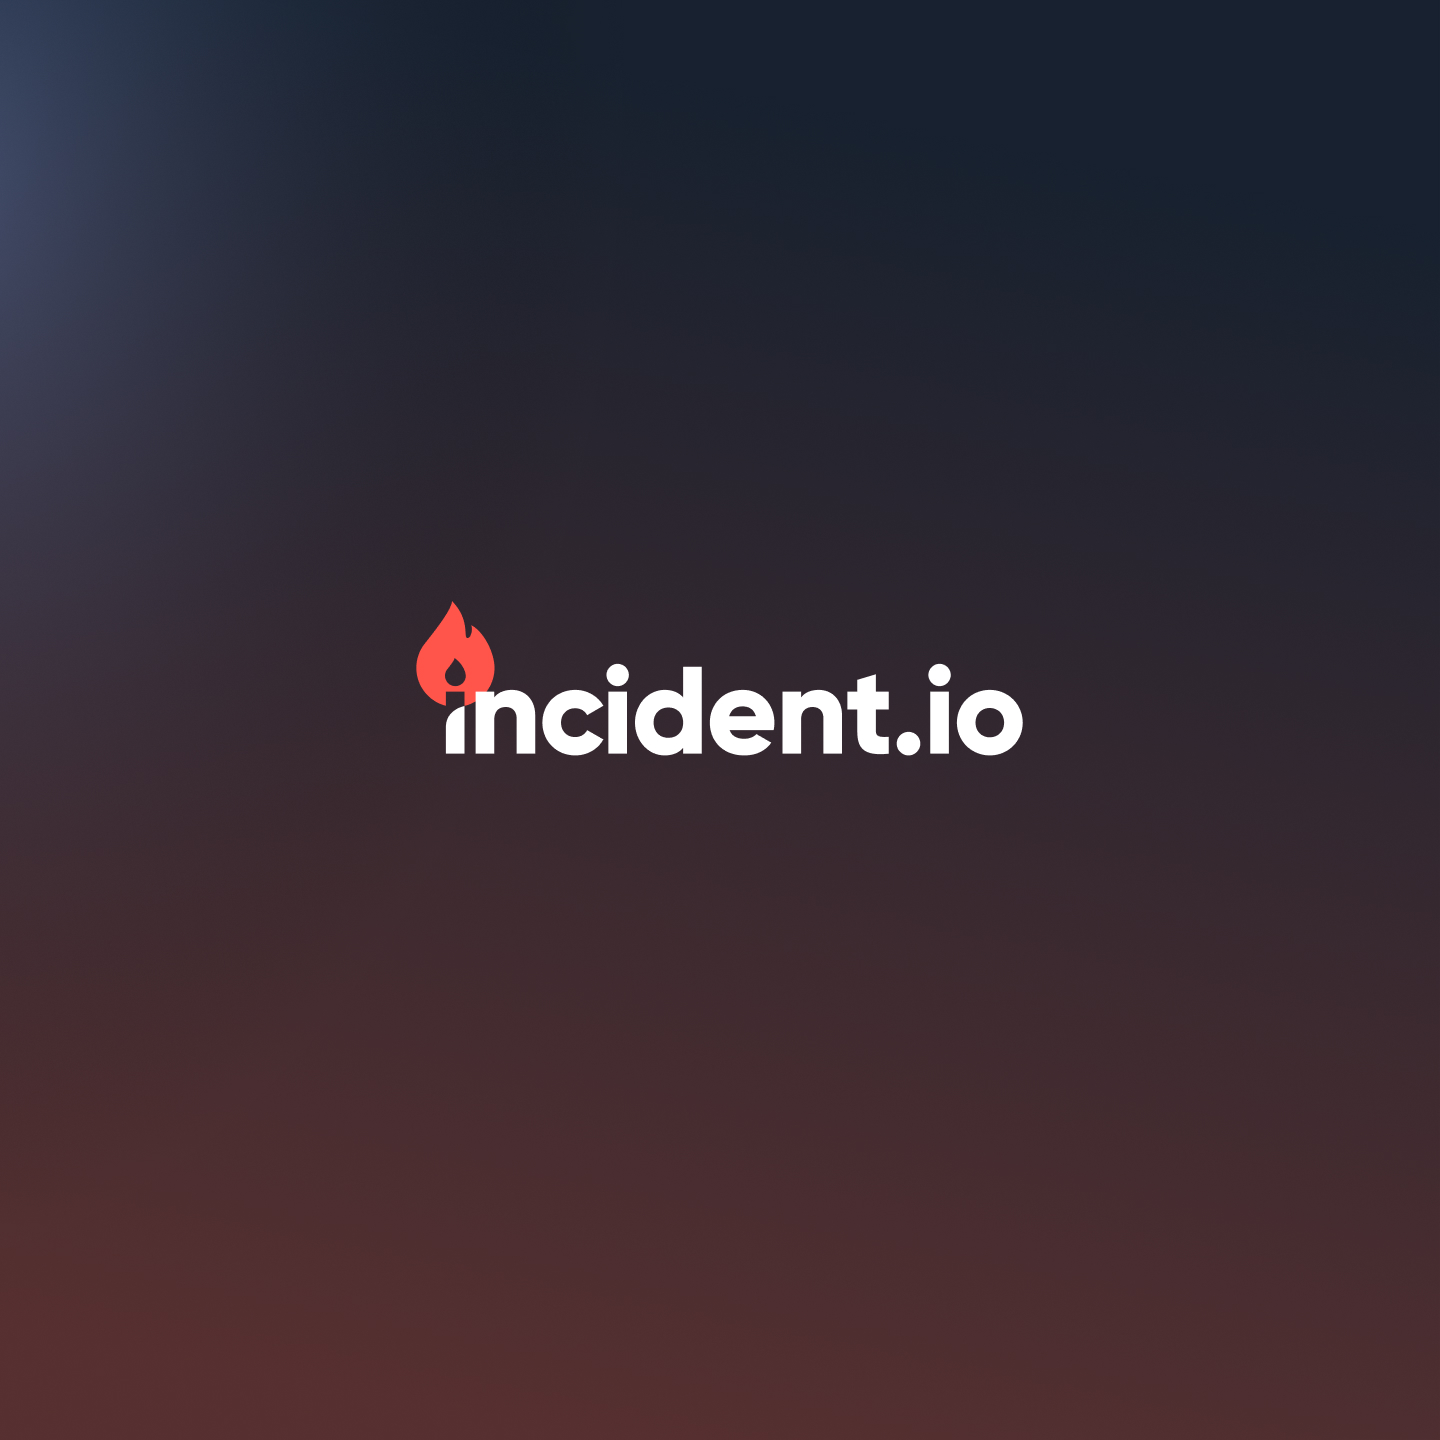
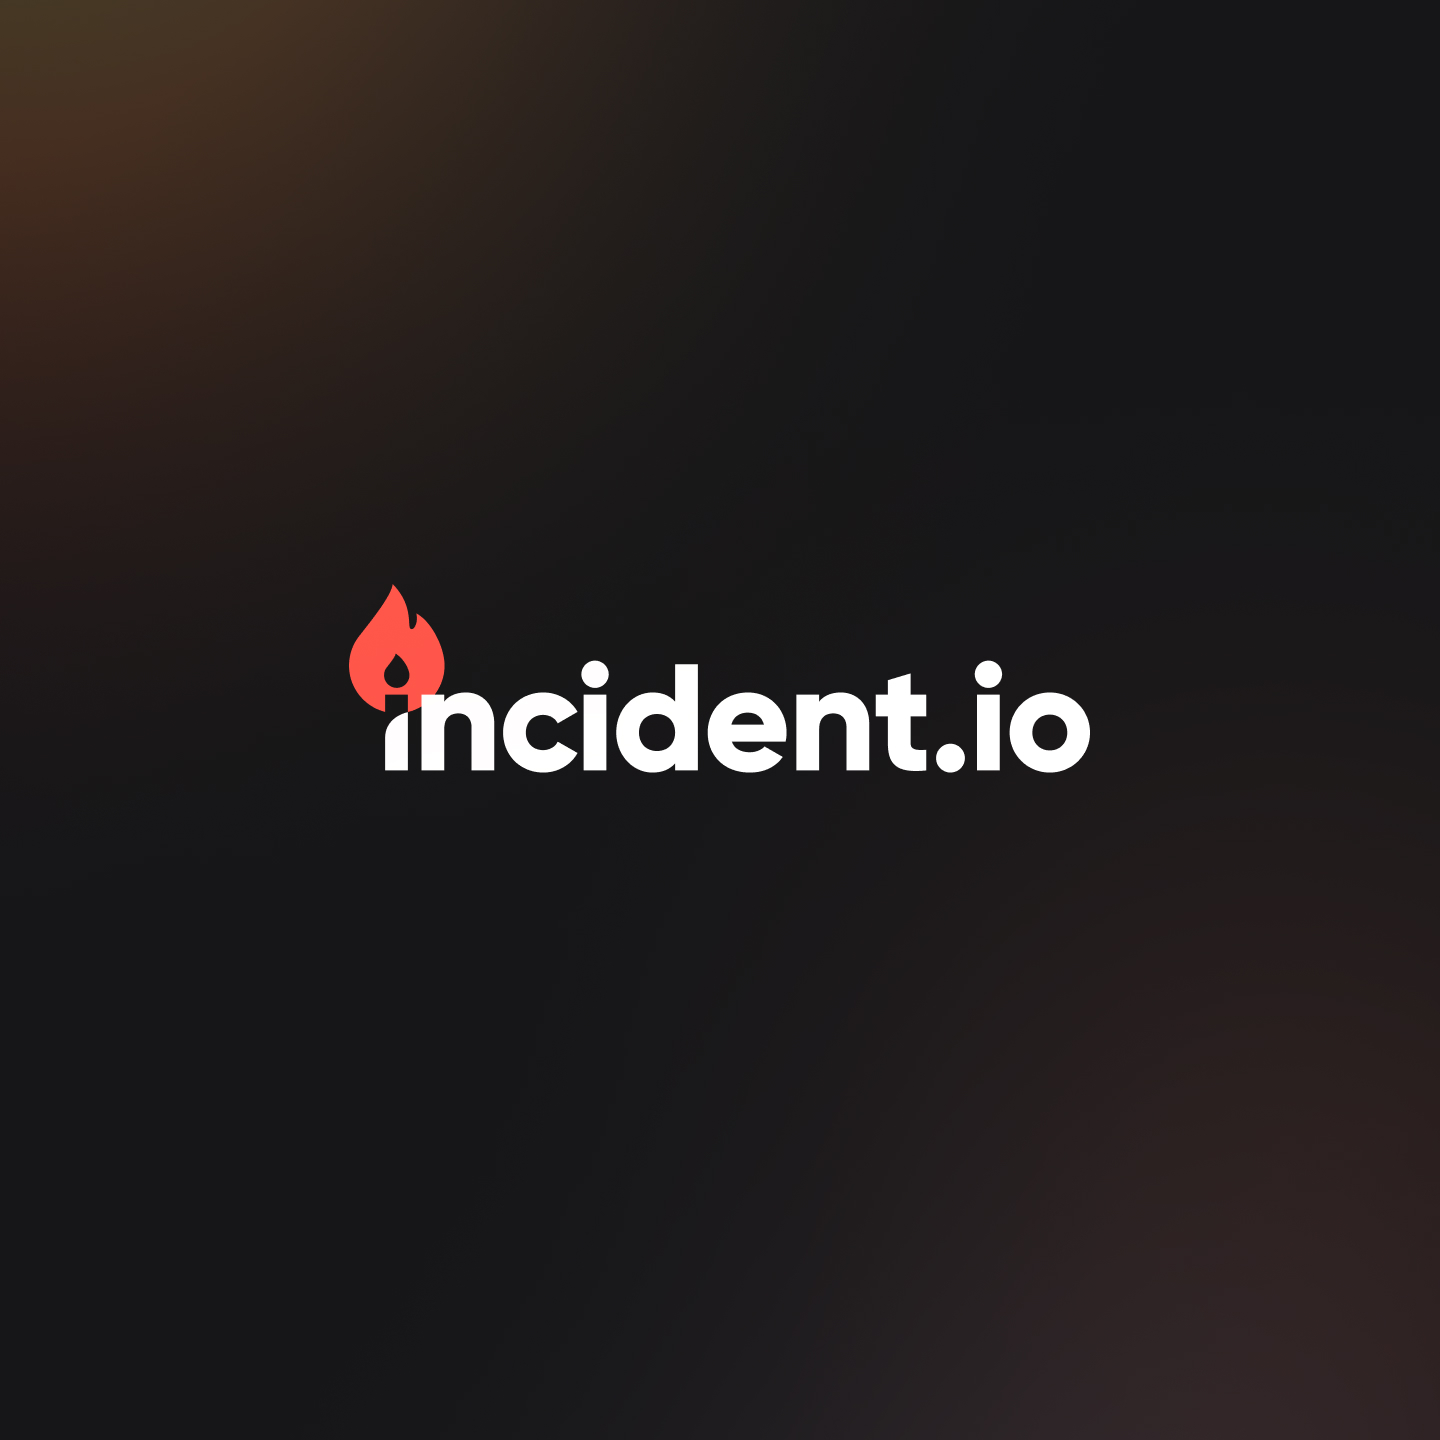
Fixes

diff --git a/src/pages/index.tsx b/src/pages/index.tsx
@@ -16,6 +16,12 @@ import { Icon } from "../components/Icon";
 
 const selectedWork = [
   {
+    title: "On-call app",
+    company: "incident.io",
+    link: "https://incident.io",
+    image: "/selected-work/incident-app.jpg",
+  },
+  {
     title: "Insights dashboard",
     company: "Duffel",
     link: "https://duffel.com",
@@ -43,7 +49,7 @@ const selectedWork = [
     title: "Logo design",
     company: "Incident.io",
     link: "https://incident.io",
-    image: "/selected-work/incident.jpg",
+    image: "/selected-work/incident-new-logo.jpg",
   },
   {
     title: "Project page",
@@ -58,7 +64,7 @@ const selectedWork = [
     image: "/selected-work/api-docs.jpg",
   },
   {
-    title: "Logo + brand design",
+    title: "Logo design",
     company: "Dependabot",
     link: "https://dependabot.com",
     image: "/selected-work/dependabot.jpg",
@@ -231,7 +237,7 @@ export default function Home() {
       </Head>
 
       <div className="transition-colors">
-        <div className="flex flex-col pt-6 pb-4 px-8 gap-40 max-w-xl mx-auto">
+        <div className="flex flex-col p-6 sm:p-8 gap-40 max-w-xl mx-auto">
           {/* Header */}
           <div className="animate-first flex flex-row justify-between items-center">
 
@@ -283,7 +289,7 @@ export default function Home() {
           </div>
 
           {/* Hero */}
-          <div className="mx-auto w-fulltext-left animate-second">
+          <div className="mx-auto w-full text-left animate-second">
             <div className="flex flex-col gap-6 items-start sm:items-center">
               <div className="flex flex-col gap-8">
                 <div className="flex flex-col gap-4">
@@ -298,12 +304,12 @@ export default function Home() {
                   <div className="p-px bg-gradient-to-r dark:from-[#412525] dark:via-gray-800 dark:to-gray-800 from-red-200 via-gray-200 to-gray-200 rounded-full inline-flex">
                     <div className="h-9 px-4 rounded-full dark:bg-gray-900 bg-gray-50 justify-start items-center gap-3 inline-flex">
                       <div className="w-2 h-2 dark:bg-red-700 bg-red-500 rounded-full availability-orb" />
-                      <div className="dark:text-gray-500 text-gray-500 text-sm font-medium">Limited space for new projects</div>
+                      <div className="dark:text-gray-500 text-gray-500 text-sm font-medium">Low availability</div>
                       <div className="availability-divider"></div>
                       <a
                         href="#"
                         onClick={copyToClipboard}
-                        className="dark:text-gray-300 text-gray-900 text-sm font-medium dark:hover:text-gray-50 hover:text-gray-500 transition-colors"
+                        className="dark:text-gray-300 text-gray-900 text-sm font-medium dark:hover:text-gray-50 hover:text-gray-500 transition-colors text-center w-[77px]"
                       >
                         {buttonText}
                       </a>
@@ -347,13 +353,13 @@ export default function Home() {
                         <div className="next absolute top-0 bottom-0 left-1/2 right-0 cursor-e-resize"></div>
                       </div>
                       <div className="hide-details w-full flex flex-row justify-between pt-5 px-1">
-                        <p className="dark:text-gray-500 text-gray-500 text-sm">
+                        <p className="dark:text-gray-500 text-gray-400 text-sm">
                           {project.title}
                         </p>
                         <Link
                           href={project.link}
                           target="_blank"
-                          className="dark:text-gray-300 text-gray-400 flex flex-row items-center gap-1 justify-center text-sm group dark:hover:text-gray-50 hover:text-gray-900"
+                          className="dark:text-gray-300 text-gray-600 flex flex-row items-center gap-1 justify-center text-sm group dark:hover:text-gray-100 hover:text-gray-900"
                         >
                           {project.company}
                         </Link>
@@ -387,11 +393,11 @@ export default function Home() {
                   <div className="border-b dark:border-gray-900 border-gray-200 flex flex-col cursor-pointer group" onClick={() => toggleCollapse(item.company)}>
                     <div className="items-center gap-4 flex flex-row justify-between py-4">
                       <div className="flex flex-row gap-4">
-                        <div className="text-right text-neutral-500 text-sm font-normal font-['Inter'] leading-tight">{item.date}</div>
-                        <div className="dark:text-neutral-50 text-gray-900 text-sm font-normal font-['Inter'] leading-tight">{item.company}</div>
+                        <div className="text-right text-neutral-500 text-sm font-normal leading-tight tabular-nums lining-nums">{item.date}</div>
+                        <div className="dark:text-neutral-50 text-gray-900 text-sm font-normal leading-tight">{item.company}</div>
                       </div>
                       <div className="flex flex-row justify-end gap-4">
-                        <div className="text-right text-neutral-500 text-sm font-normal font-['Inter'] leading-tight">{item.role}</div>
+                        <div className="text-right text-neutral-500 text-sm font-normal leading-tight">{item.role}</div>
                         <PlusIcon className={`
                         h-4 w-4 fill-gray-500 dark:group-hover:fill-gray-50 group-hover:fill-gray-900 transition-all 
                         ${!collapsedStates[item.company] ? 'rotate-0' : 'rotate-45'}
@@ -421,10 +427,12 @@ export default function Home() {
               <div className="flex flex-row gap-3">
                 <button
                   onClick={copyToClipboard}
-                  className="button w-[145px] !justify-start"
+                  className="button w-[147px]"
                 >
                   <ChatBubbleLeftRightIcon className="h-4 w-4 mr-2" />
-                  {buttonText}
+                  <span className="flex flex-col text-center flex-1">
+                    {buttonText}
+                  </span>
                 </button>
                 <Link
                   href="https://twitter.com/samwill_is"
@@ -439,13 +447,15 @@ export default function Home() {
               </div>
             </div>
           </AppearIn>
-          <div className="flex flex-row justify-between gap-10 mb-2">
+
+          {/* Footer */}
+          <div className="flex flex-row justify-between gap-10">
             <span className="text-sm dark:text-gray-700 text-gray-400">© 2024</span>
-            <span className="text-sm dark:text-gray-700 text-gray-400">Muddled together by me, <a href="http://github.com/swillis" target="_blank" className="dark:text-gray-500 text-gray-500">Swillis</a></span>
+            <span className="text-sm dark:text-gray-700 text-gray-400">Muddled together by me, <a href="http://github.com/swillis" target="_blank" className="dark:text-gray-500 text-gray-500 hover:dark:text-gray-100 hover:text-gray-900">Swillis</a></span>
           </div>
         </div>
         <div className="special">
-          <div className="flex flex-col py-6 px-8 gap-32 max-w-xl mx-auto border-x border-dashed dark:border-gray-800 border-gray-300 h-full"></div>
+          <div className="flex flex-col py-6 px-8 gap-32 max-w-xl mx-auto sm:border-x border-dashed dark:border-gray-800 border-gray-300 h-full"></div>
         </div>
       </div >
     </main>

diff --git a/src/styles/globals.css b/src/styles/globals.css
@@ -25,6 +25,10 @@ a {
 body {
   -webkit-font-smoothing: antialiased;
   @apply tracking-tight bg-gradient-to-b from-gray-800 to-gray-900;
+  /* font-family: "Favorit", sans-serif; */
+  font-family: "Inter", sans-serif;
+  /* font-feature-settings: 'dlig' on, 'ss01' on, 'ss03' on, 'ss04' on, 'ss07' on, 'ss11' on; */
+  font-feature-settings: 'dlig' on, 'salt' on, 'ss01' on, 'ss03' on, 'ss04' on, 'ss07' on, 'ss11' on;
 }
 
 .digital-font {
